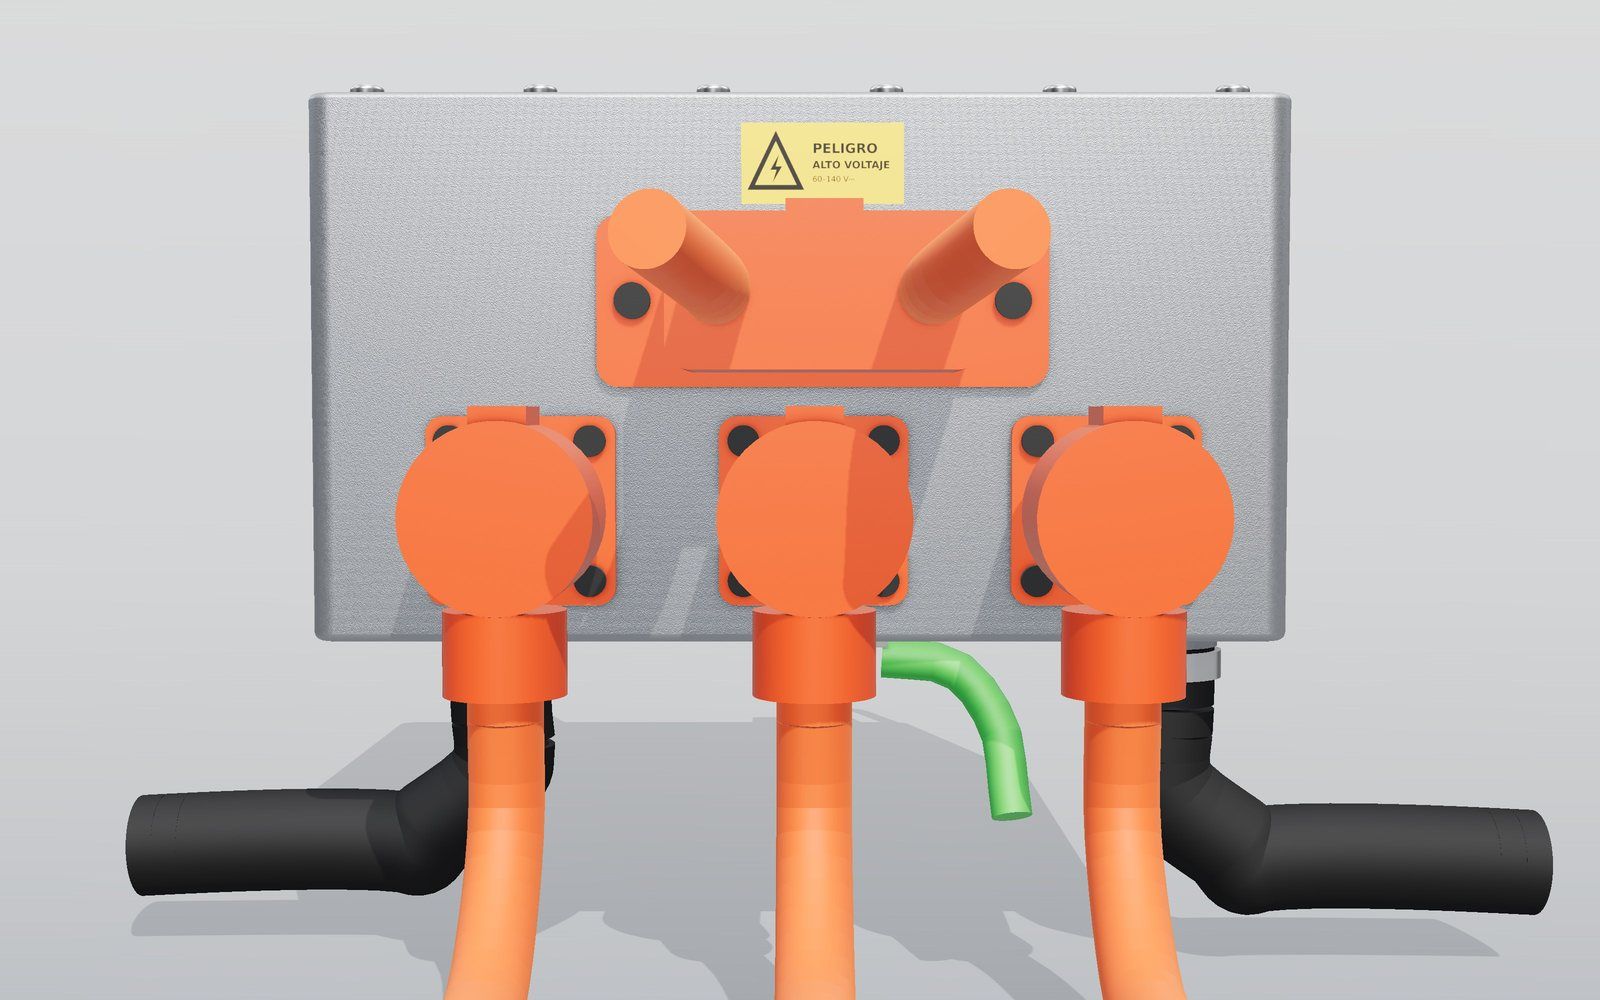
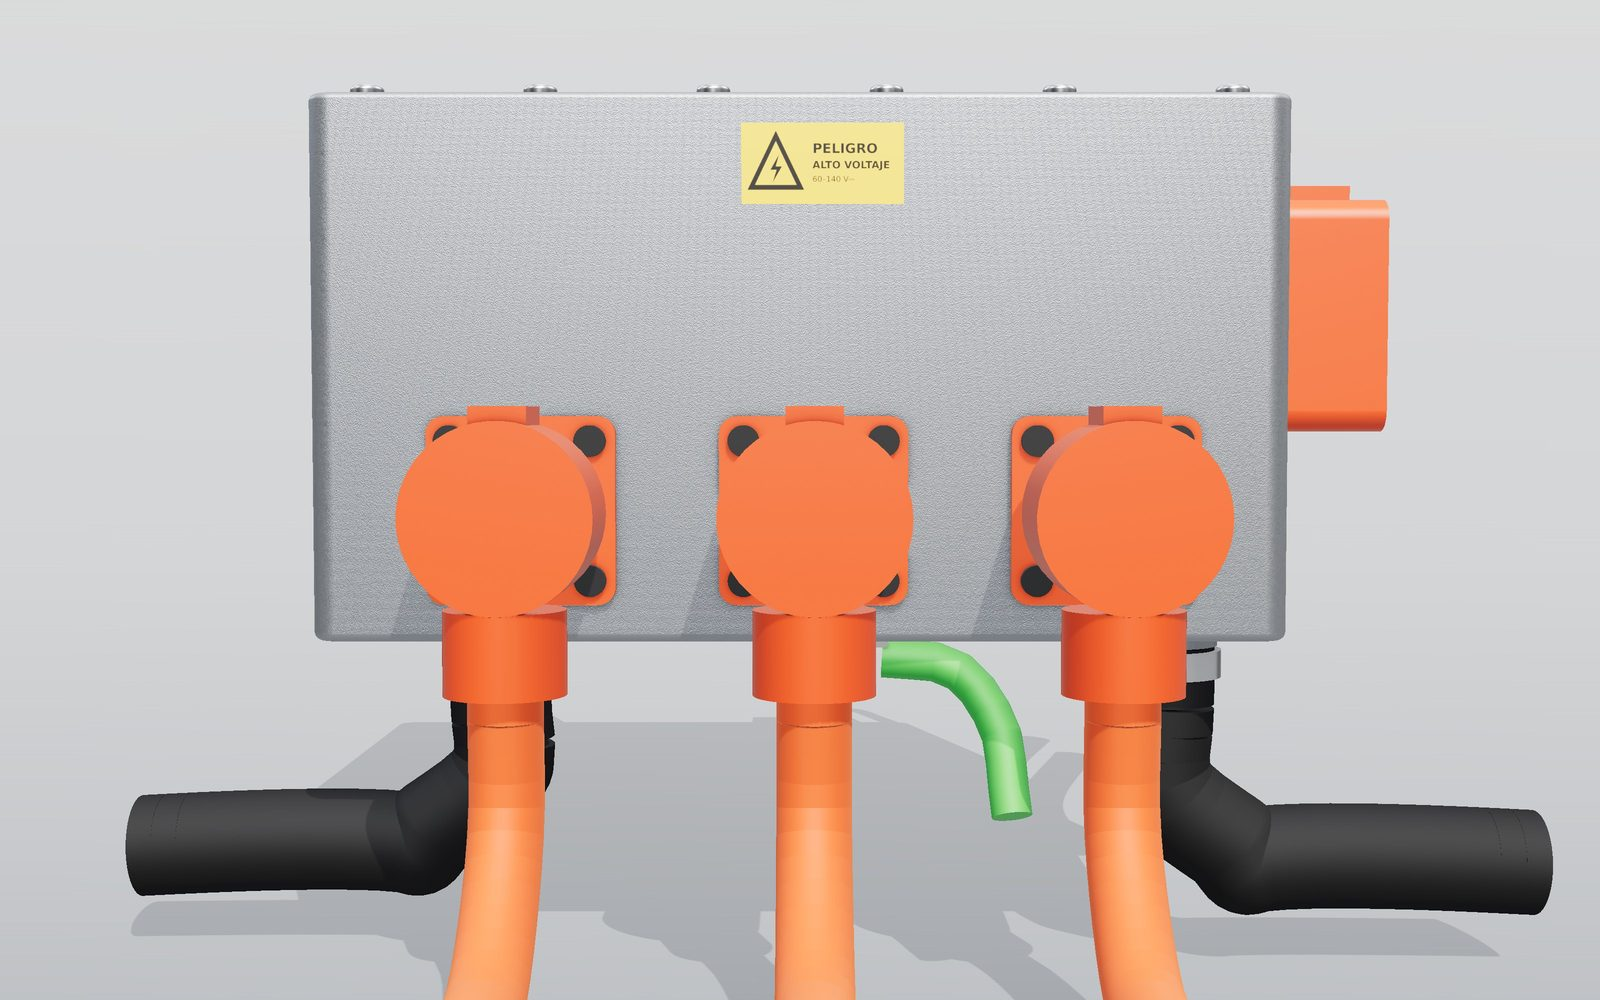
Gabinete con la bateria en el costado: vistas nuevas y vista lateral
Claude-Session: https://claude.ai/code/session_01WMuwA59sp2NyGUn3PyYJAQ

diff --git a/index.html b/index.html
@@ -177,7 +177,7 @@ tbody tr:hover td{background:color-mix(in srgb,var(--guinda-soft) 55%,transparen
 .arrows{position:absolute;right:12px;bottom:12px;display:flex;gap:8px}
 .arrows button{width:40px;height:40px;border-radius:50%;border:0;background:rgba(19,24,32,.72);color:#fff;font-size:18px;cursor:pointer;display:grid;place-items:center}
 .arrows button:hover{background:rgba(19,24,32,.92)}
-.thumbs{display:grid;grid-template-columns:repeat(11,1fr);gap:8px}
+.thumbs{display:grid;grid-template-columns:repeat(12,1fr);gap:8px}
 .thumbs button{padding:0;border:2px solid transparent;border-radius:8px;overflow:hidden;background:#dadcdb;cursor:pointer;aspect-ratio:16/10;opacity:.62;transition:opacity .2s,border-color .2s}
 .thumbs button img{width:100%;height:100%;object-fit:cover}
 .thumbs button:hover{opacity:1}
@@ -589,19 +589,20 @@ footer b{color:var(--band-ink);font-weight:600}
           <img id="v-img" src="img/gab_01_producto.jpg" width="1600" height="1000" alt="Gabinete cerrado con conectores, mangueras y tierra">
           <div class="arrows"><button type="button" id="v-prev" aria-label="Anterior / Previous">‹</button><button type="button" id="v-next" aria-label="Siguiente / Next">›</button></div>
         </div>
-        <figcaption><span id="v-cap"><b><span class="es">Producto terminado.</span><span class="en">Finished product.</span></b> <span class="es">220 × 209.5 × 142.6 mm con conectores, dentro de la ficha de 220 × 210 × 144 mm. Receptáculos sellados de alto voltaje, mangueras del refrigerante y tierra. Conectores genéricos, por definir con Olinia.</span><span class="en">220 × 209.5 × 142.6 mm with connectors, inside the 220 × 210 × 144 mm spec. Sealed high-voltage receptacles, coolant hoses and ground. Generic connectors, to be defined with Olinia.</span></span><span class="nums" id="v-num">01 / 11</span></figcaption>
+        <figcaption><span id="v-cap"><b><span class="es">Producto terminado.</span><span class="en">Finished product.</span></b> <span class="es">220 × 209.5 × 142.6 mm con conectores, dentro de la ficha de 220 × 210 × 144 mm. Fases al frente, batería en el costado y bajo voltaje atrás, con mangueras del refrigerante y tierra. Conectores genéricos, por definir con Olinia.</span><span class="en">220 × 209.5 × 142.6 mm with connectors, inside the 220 × 210 × 144 mm spec. Phases at the front, battery on the side and low voltage at the rear, plus coolant hoses and ground. Generic connectors, to be defined with Olinia.</span></span><span class="nums" id="v-num">01 / 12</span></figcaption>
       </figure>
       <div class="thumbs" role="group" aria-label="Vistas / Views">
-        <button type="button" aria-pressed="true" data-src="img/gab_01_producto.jpg" data-alt="Gabinete cerrado con conectores, mangueras y tierra"><img src="img/min/gab_01_producto.jpg" width="400" height="250" alt=""><span class="cap"><b><span class="es">Producto terminado.</span><span class="en">Finished product.</span></b> <span class="es">220 × 209.5 × 142.6 mm con conectores, dentro de la ficha de 220 × 210 × 144 mm. Receptáculos sellados de alto voltaje, mangueras del refrigerante y tierra. Conectores genéricos, por definir con Olinia.</span><span class="en">220 × 209.5 × 142.6 mm with connectors, inside the 220 × 210 × 144 mm spec. Sealed high-voltage receptacles, coolant hoses and ground. Generic connectors, to be defined with Olinia.</span></span></button>
-        <button type="button" aria-pressed="false" data-src="img/gab_02_frente.jpg" data-alt="Frente del gabinete con el conector de batería arriba y las tres fases abajo"><img src="img/min/gab_02_frente.jpg" width="400" height="250" alt=""><span class="cap"><b><span class="es">Frente.</span><span class="en">Front.</span></b> <span class="es">Arriba, el receptáculo de batería; abajo, las fases U, V y W hacia el motor y el cable verde de tierra.</span><span class="en">Battery receptacle on top; below, phases U, V and W to the motor and the green ground lead.</span></span></button>
+        <button type="button" aria-pressed="true" data-src="img/gab_01_producto.jpg" data-alt="Gabinete cerrado con conectores, mangueras y tierra"><img src="img/min/gab_01_producto.jpg" width="400" height="250" alt=""><span class="cap"><b><span class="es">Producto terminado.</span><span class="en">Finished product.</span></b> <span class="es">220 × 209.5 × 142.6 mm con conectores, dentro de la ficha de 220 × 210 × 144 mm. Fases al frente, batería en el costado y bajo voltaje atrás, con mangueras del refrigerante y tierra. Conectores genéricos, por definir con Olinia.</span><span class="en">220 × 209.5 × 142.6 mm with connectors, inside the 220 × 210 × 144 mm spec. Phases at the front, battery on the side and low voltage at the rear, plus coolant hoses and ground. Generic connectors, to be defined with Olinia.</span></span></button>
+        <button type="button" aria-pressed="false" data-src="img/gab_02_frente.jpg" data-alt="Frente del gabinete con las tres fases y la tierra"><img src="img/min/gab_02_frente.jpg" width="400" height="250" alt=""><span class="cap"><b><span class="es">Frente.</span><span class="en">Front.</span></b> <span class="es">Las fases U, V y W hacia el motor y el cable verde de tierra. La batería ya no entra por el frente: llega por el costado derecho.</span><span class="en">Phases U, V and W to the motor and the green ground lead. The battery no longer enters at the front: it comes in on the right side.</span></span></button>
         <button type="button" aria-pressed="false" data-src="img/gab_03_atras.jpg" data-alt="Parte trasera del gabinete con los conectores de bajo voltaje"><img src="img/min/gab_03_atras.jpg" width="400" height="250" alt=""><span class="cap"><b><span class="es">Atrás.</span><span class="en">Rear.</span></b> <span class="es">Conectores sellados de bajo voltaje para las señales hacia el vehículo y el motor.</span><span class="en">Sealed low-voltage connectors for the signals to the vehicle and the motor.</span></span></button>
         <button type="button" aria-pressed="false" data-src="img/gab_04_abajo.jpg" data-alt="Vista desde abajo con las mangueras de refrigerante"><img src="img/min/gab_04_abajo.jpg" width="400" height="250" alt=""><span class="cap"><b><span class="es">Abajo.</span><span class="en">Underside.</span></b> <span class="es">Entrada y salida del refrigerante a la placa fría, el borne de tierra y los cables de fase saliendo hacia el motor.</span><span class="en">Coolant inlet and outlet for the cold plate, the ground stud and the phase cables heading to the motor.</span></span></button>
         <button type="button" aria-pressed="false" data-src="img/gab_05_abierto.jpg" data-alt="Gabinete sin tapa con el banco de capacitores y la placa de control"><img src="img/min/gab_05_abierto.jpg" width="400" height="250" alt=""><span class="cap"><b><span class="es">Sin tapa.</span><span class="en">Lid off.</span></b> <span class="es">La placa de control arriba y, debajo, el banco de 8 capacitores con su barra laminada.</span><span class="en">The control board on top and, below it, the 8-capacitor bank with its laminated busbar.</span></span></button>
         <button type="button" aria-pressed="false" data-src="img/gab_06_corte.jpg" data-alt="Corte lateral del gabinete mostrando los tres pisos"><img src="img/min/gab_06_corte.jpg" width="400" height="250" alt=""><span class="cap"><b><span class="es">Corte lateral.</span><span class="en">Side section.</span></b> <span class="es">Abajo la placa de potencia sobre la placa fría con su canal de refrigerante, en medio los capacitores y arriba la placa de control.</span><span class="en">Power board on the cold plate with its coolant channel at the bottom, capacitors in the middle and the control board on top.</span></span></button>
-        <button type="button" aria-pressed="false" data-src="img/gab_07_terminales.jpg" data-alt="Terminales de batería con capuchones rojo y negro"><img src="img/min/gab_07_terminales.jpg" width="400" height="250" alt=""><span class="cap"><b><span class="es">Terminales de CD.</span><span class="en">DC terminals.</span></b> <span class="es">La entrada de batería llega a los postes HV+ (rojo) y HV− (negro) con capuchones aislantes.</span><span class="en">The battery input reaches the HV+ (red) and HV− (black) posts under insulating caps.</span></span></button>
+        <button type="button" aria-pressed="false" data-src="img/gab_07_terminales.jpg" data-alt="Cable de batería llegando a los postes de CD con capuchón rojo"><img src="img/min/gab_07_terminales.jpg" width="400" height="250" alt=""><span class="cap"><b><span class="es">Terminales de CD.</span><span class="en">DC terminals.</span></b> <span class="es">El cable de batería entra por el costado y llega a los postes de CD, cubiertos con capuchones aislantes.</span><span class="en">The battery cable comes in from the side and reaches the DC posts, covered by insulating caps.</span></span></button>
         <button type="button" aria-pressed="false" data-src="img/gab_08_potencia.jpg" data-alt="Placa de potencia con los 48 MOSFET y las barras de cobre"><img src="img/min/gab_08_potencia.jpg" width="400" height="250" alt=""><span class="cap"><b><span class="es">Placa de potencia.</span><span class="en">Power board.</span></b> <span class="es">Los 48 MOSFET en tres piernas y las barras de cobre que llevan la corriente a las fases.</span><span class="en">The 48 MOSFETs in three legs and the copper bars that carry current to the phases.</span></span></button>
         <button type="button" aria-pressed="false" data-src="img/gab_09_control.jpg" data-alt="Placa de control con el microcontrolador F28P65"><img src="img/min/gab_09_control.jpg" width="400" height="250" alt=""><span class="cap"><b><span class="es">Placa de control.</span><span class="en">Control board.</span></b> <span class="es">206 × 54 mm, con el microcontrolador F28P65, la lectura del resolver, el supervisor y el CAN.</span><span class="en">206 × 54 mm, carrying the F28P65 microcontroller, resolver interface, supervisor and CAN.</span></span></button>
         <button type="button" aria-pressed="false" data-src="img/gab_10_refrigeracion.jpg" data-alt="Canal de refrigerante en serpentín de la placa fría"><img src="img/min/gab_10_refrigeracion.jpg" width="400" height="250" alt=""><span class="cap"><b><span class="es">Placa fría.</span><span class="en">Cold plate.</span></b> <span class="es">Corte en planta: el canal en serpentín por donde pasa el refrigerante del vehículo, debajo de los MOSFET.</span><span class="en">Plan section: the serpentine channel that carries the vehicle's coolant under the MOSFETs.</span></span></button>
+        <button type="button" aria-pressed="false" data-src="img/gab_11_lateral_bateria.jpg" data-alt="Costado derecho del gabinete con la entrada de batería en una bolsa colada"><img src="img/min/gab_11_lateral_bateria.jpg" width="400" height="250" alt=""><span class="cap"><b><span class="es">Costado con la batería.</span><span class="en">Battery side.</span></b> <span class="es">La entrada de batería va en la pared lateral derecha, metida en una bolsa colada para que no sobresalga y separada de las fases.</span><span class="en">The battery input sits in the right side wall, recessed in a cast pocket so it does not stick out, and kept apart from the phases.</span></span></button>
         <button type="button" aria-pressed="false" data-src="img/pcb_potencia.jpg" data-alt="Cobre de la cara superior de la placa de potencia" data-pcb="1"><img src="img/min/pcb_potencia.jpg" width="400" height="250" alt=""><span class="cap"><b><span class="es">Ruteo de la placa de potencia.</span><span class="en">Power board routing.</span></b> <span class="es">206 × 185 mm, 4 capas, cara superior. Las tres piernas U, V y W con 16 MOSFET cada una; abajo, los postes de CD y las salidas de fase.</span><span class="en">206 × 185 mm, 4 layers, top side. The three legs U, V and W with 16 MOSFETs each; below, the DC posts and phase outputs.</span></span></button>
       </div>
     </div>
